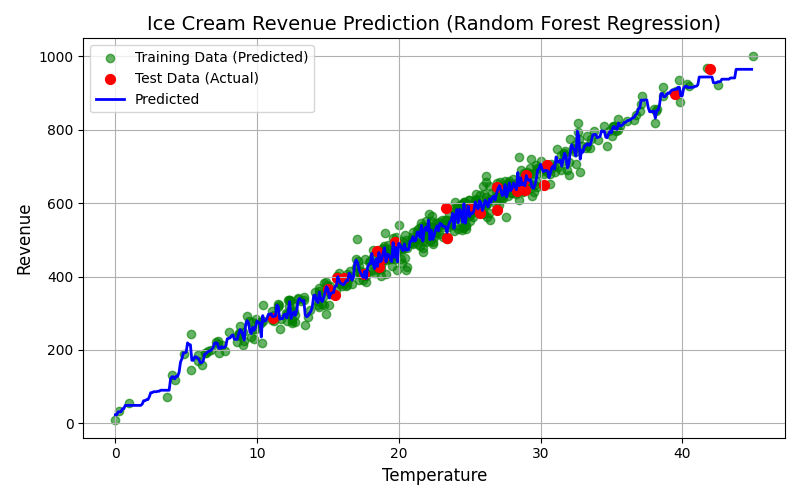
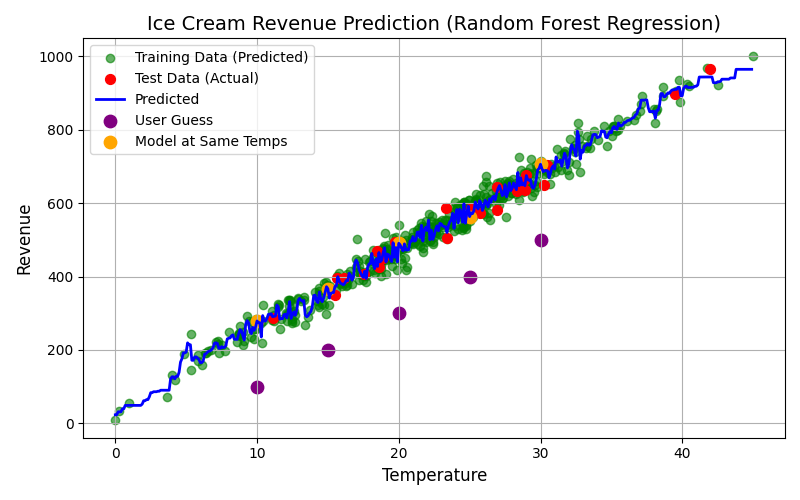
added a function where user can guess the icecream revenue at dif temperatures

diff --git a/icecream_revenue_random_forest_regressor.py b/icecream_revenue_random_forest_regressor.py
@@ -51,11 +51,44 @@ plt.plot(X_grid, y_grid_pred, color='blue', label='Predicted', linewidth=2)
 plt.title('Ice Cream Revenue Prediction (Random Forest Regression)', fontsize=14)
 plt.xlabel('Temperature', fontsize=12)
 plt.ylabel('Revenue', fontsize=12)
-plt.legend()
 plt.grid(True)
 plt.tight_layout()
+
+
+# User guessing the revenue for a given temperature section!
+temperatures = [10, 15, 20, 25, 30]
+X_user = np.array(temperatures).reshape(-1, 1)
+
+# Get guesses
+user_guesses = []
+print("\nGuess the icecream revenue for these temperatures in dollars:")
+
+for temp in temperatures:
+    guess = float(input(f"Enter your guess for {temp}°C: "))
+    user_guesses.append(guess)
+
+# Predict using the trained model
+model_preds = regressor.predict(X_user)
+
+df_user = pd.DataFrame({
+    'Temperature': temperatures,
+    'User Guess': user_guesses,
+    'Model Prediction': model_preds,
+})
+
+# User guesses
+plt.scatter(temperatures, user_guesses, color='purple', label='User Guess', s=80)
+
+# Model predictions at the same temperatures
+plt.scatter(temperatures, model_preds, color='orange', label='Model at Same Temps', s=80)
+
+print("\nComparison of User Guesses and Model Predictions:")
+print(df_user)
+
+# Show the legend
+plt.legend()
 plt.show()
 
 # Save the plot as an image
-plt.savefig("ice_cream_prediction.png")  # saves in your current folder
+plt.savefig("ice_cream_prediction.png")  
 print("Plot saved as ice_cream_prediction.png")

diff --git a/README.md b/README.md
@@ -4,6 +4,7 @@ Hi! This is my first Sleepover project!!
 What your project is/does (and what it's called):
 - My project is called Icecream Revenue Random Forest Regressor
 - It uses the random forest machine learning model to analyze the number of icecream sales based on the temperature and make predictions
+- It asks the user to guess the revenue made from icecream sales at different temperatures and adds it to a plot graph
 
 Why you made your project:
 - I made this project because I am interested in using machine learning to visualize data
